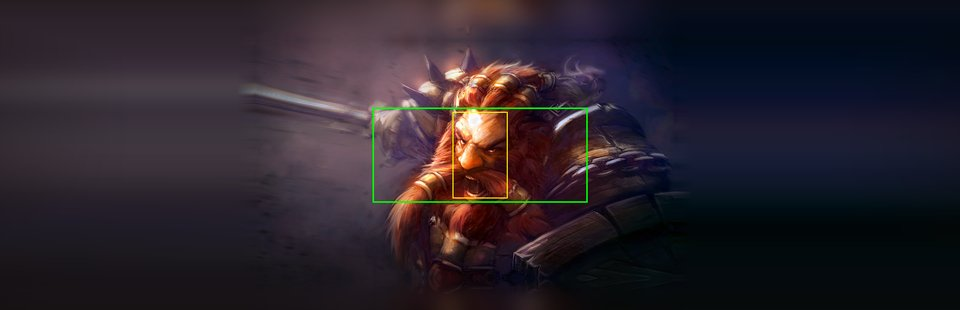
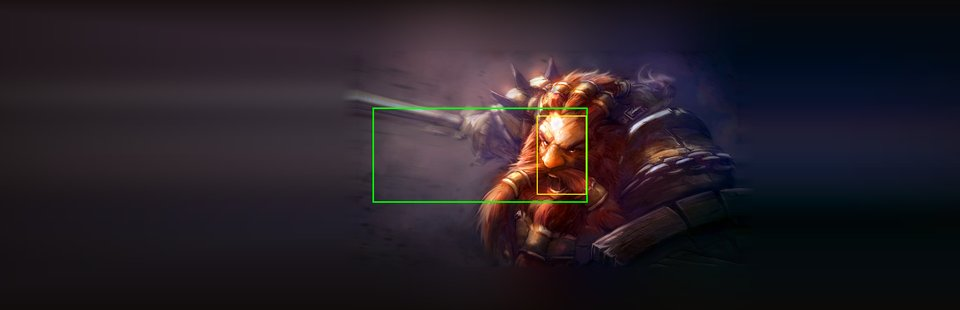
Update Development/AI/Steam Store Assets.md, uploads/Development/AI/Steam Store Assets/make_steam_store_assets.py, and example images in uploads/Development/AI/Steam Store Assets/.

diff --git a/uploads/Development/AI/Steam Store Assets/make_steam_store_assets.py b/uploads/Development/AI/Steam Store Assets/make_steam_store_assets.py
@@ -47,17 +47,17 @@ PORTRAITS = {
 #   and the center of the visible lockup as canvas fractions; over_face allows it over the face.
 ASSETS = [
     {"name": "storeheader", "file": r"STORE\GH_STEAM_ASSET_STOREHEADER.png", "size": (920, 430),
-     "art": "DwarfWarrior", "at": (0.70, 0.47), "zoom": 1.1,
+     "art": "DwarfWarrior", "at": (0.76, 0.47), "zoom": 1.0,
      "grade": {"side": ("left", 0.66, 235), "edges": (60, 110, 0, 40)},
-     "lockup": {"variant": "stacked", "width": 380, "center": (0.255, 0.5)}},
+     "lockup": {"variant": "stacked", "width": 465, "center": (0.306, 0.5), "shield": 2.2}},
     {"name": "smallcapsule", "file": r"STORE\GH_STEAM_ASSET_STORE_SMALLCAPSULE.png", "size": (462, 174),
      "art": "DwarfWarrior", "at": (0.62, 0.45), "zoom": 1.0,
      "grade": {"brightness": 0.36, "blur": 1.5, "edges": (40, 60, 40, 40)},
      "lockup": {"variant": "horizontal", "width": 406, "center": (0.5, 0.5), "shield": 1.25, "over_face": True}},
     {"name": "maincapsule", "file": r"STORE\GH_STEAM_ASSET_STORE_MAINCAPSULE.png", "size": (1232, 706),
-     "art": "WomanRanger", "at": (0.27, 0.26), "zoom": 1.05,
+     "art": "WomanRanger", "at": (0.25, 0.26), "zoom": 1.05,
      "grade": {"side": ("right", 0.62, 215), "edges": (50, 120, 30, 0)},
-     "lockup": {"variant": "stacked", "width": 500, "center": (0.725, 0.5)}},
+     "lockup": {"variant": "stacked", "width": 580, "center": (0.71, 0.5), "shield": 2.3}},
     {"name": "verticalcapsule", "file": r"STORE\GH_STEAM_ASSET_STORE_VERTICALCAPSULE.png", "size": (748, 896),
      "art": "WomanRanger", "focus": (0.43, 0.235), "at": (0.5, 0.17), "zoom": 1.0,
      "grade": {"side": ("bottom", 0.6, 245), "edges": (50, 0, 40, 40)},
@@ -71,12 +71,12 @@ ASSETS = [
      "grade": {"side": ("bottom", 0.6, 245), "edges": (50, 0, 40, 40)},
      "lockup": {"variant": "stacked", "width": 450, "center": (0.5, 0.8), "shield": 2.1}},
     {"name": "libraryheader", "file": r"LIBRARY\GH_STEAM_ASSET_LIBRARYHEADER.png", "size": (920, 430),
-     "art": "WomanRanger", "at": (0.27, 0.26), "zoom": 1.05,
+     "art": "WomanRanger", "at": (0.25, 0.26), "zoom": 1.05,
      "grade": {"side": ("right", 0.62, 215), "edges": (50, 120, 30, 0)},
-     "lockup": {"variant": "stacked", "width": 370, "center": (0.715, 0.5)}},
+     "lockup": {"variant": "stacked", "width": 430, "center": (0.70, 0.5), "shield": 2.3}},
     {"name": "libraryhero", "file": r"LIBRARY\GH_STEAM_ASSET_LIBRARYHERO.png", "size": (3840, 1240),
-     "art": "DwarfWarrior", "at": (0.5, 0.5), "zoom": 0.44, "extend": "smear",
-     "grade": {"edges": (120, 140, 60, 60), "corner": (150, 0.45, 0.55)}},
+     "art": "DwarfWarrior", "at": (0.585, 0.5), "zoom": 0.40, "extend": "smear",
+     "grade": {"side": ("left", 0.5, 140), "edges": (190, 200, 60, 60), "corner": (150, 0.45, 0.55)}},
     {"name": "librarylogo", "file": r"LIBRARY\GH_STEAM_ASSET_LIBRARYLOGO.png", "size": (1280, None),
      "lockup": {"variant": "horizontal", "width": 1280, "shadow": 1.6}},
 ]
@@ -89,8 +89,14 @@ DOWNSCALES = {
     "libraryhero": [(1920, 620)],
 }
 
-# Library Logo positions that Steamworks offers over the hero
+# Library Logo positions that Steamworks offers over the hero, and the one set in Steamworks
 LOGO_POSITIONS = ("bottom_left", "top_center", "center", "bottom_center")
+LOGO_POSITION = "bottom_left"
+
+# The Library Logo as the Steam client showed it at bottom left in a 2000-pixel-wide library view
+# (November 23, 2026), as fractions of the hero: visible width, left edge, and vertical center.
+# The client shows the logo larger than the uploaded file. The other positions are estimates.
+LOGO_VIEW = {"width": 0.47, "left": 0.046, "center_y": 0.555}
 
 
 def find_cinzel(style):
@@ -114,9 +120,9 @@ def ramp(size, horizontal, func):
 def extend(src, box, mode="mirror"):
     """Returns the source padded so that box fits, and box in its coordinates.
 
-    mode "mirror" pads with mirrored art. "smear" stretches the colors of the leftmost and rightmost
-    columns sideways instead, for art whose subject would show up again in a mirrored copy, and
-    mirrors at the top and bottom. The padding is blurred.
+    mode "mirror" pads with mirrored art. "smear" stretches the colors of the outermost columns and
+    rows outward instead, for art whose subject would show up again in a mirrored copy. The padding
+    is blurred.
     """
     sw, sh = src.size
     x0, y0, x1, y1 = box
@@ -141,10 +147,17 @@ def extend(src, box, mode="mirror"):
         img.paste(strip((left, top, left + (edge if mode == "smear" else left), top + sh), (left, sh)), (0, top))
     if right:
         img.paste(strip((left + sw - (edge if mode == "smear" else right), top, left + sw, top + sh), (right, sh)), (left + sw, top))
+    def rows(region, height):
+        part = img.crop(region)
+        if mode == "smear":
+            line = part.resize((w, 1), Image.BOX).filter(ImageFilter.GaussianBlur(0.02 * w))
+            return line.resize((w, height), Image.BILINEAR)
+        return part.transpose(Image.FLIP_TOP_BOTTOM)
+
     if top:
-        img.paste(img.crop((0, top, w, 2 * top)).transpose(Image.FLIP_TOP_BOTTOM), (0, 0))
+        img.paste(rows((0, top, w, top + (edge if mode == "smear" else top)), top), (0, 0))
     if bottom:
-        img.paste(img.crop((0, top + sh - bottom, w, top + sh)).transpose(Image.FLIP_TOP_BOTTOM), (0, top + sh))
+        img.paste(rows((0, top + sh - (edge if mode == "smear" else bottom), w, top + sh), bottom), (0, top + sh))
     feather = 0.04 * sw
     blurred = img.reduce(8).filter(ImageFilter.GaussianBlur(0.025 * sw / 8)).resize((w, h), Image.BICUBIC)
     across = ramp((w, h), True, lambda t: max(left - t * w, t * w - left - sw) / feather)
@@ -153,24 +166,31 @@ def extend(src, box, mode="mirror"):
     return img, (x0 + left, y0 + top, x1 + left, y1 + top)
 
 
-def place_art(art_dir, spec):
-    """Scales the portrait in one Lanczos step onto the canvas; returns the image and the face box on it."""
-    name = spec["art"]
-    src = Image.open(os.path.join(art_dir, name + ".png")).convert("RGB")
+def art_geometry(art_dir, spec):
+    """Returns the scale, the source point at the canvas origin, and the face box on the canvas."""
+    with Image.open(os.path.join(art_dir, spec["art"] + ".png")) as src:
+        sw, sh = src.size
     w, h = spec["size"]
-    face = PORTRAITS[name]["face"]
+    face = PORTRAITS[spec["art"]]["face"]
     fx, fy = spec.get("focus", ((face[0] + face[2]) / 2, (face[1] + face[3]) / 2))
     ax, ay = spec["at"]
-    scale = spec["zoom"] * max(w / src.width, h / src.height)
+    scale = spec["zoom"] * max(w / sw, h / sh)
     if scale > 1:
         raise SystemExit(spec["name"] + ": the art would be upscaled; lower the zoom")
-    x0 = fx * src.width - ax * w / scale
-    y0 = fy * src.height - ay * h / scale
+    x0 = fx * sw - ax * w / scale
+    y0 = fy * sh - ay * h / scale
+    face_box = (round((face[0] * sw - x0) * scale), round((face[1] * sh - y0) * scale),
+                round((face[2] * sw - x0) * scale), round((face[3] * sh - y0) * scale))
+    return scale, x0, y0, face_box
+
+
+def place_art(art_dir, spec):
+    """Scales the portrait in one Lanczos step onto the canvas; returns the image and the face box on it."""
+    scale, x0, y0, face_box = art_geometry(art_dir, spec)
+    w, h = spec["size"]
+    src = Image.open(os.path.join(art_dir, spec["art"] + ".png")).convert("RGB")
     img, box = extend(src, (x0, y0, x0 + w / scale, y0 + h / scale), spec.get("extend", "mirror"))
-    out = img.resize((w, h), Image.LANCZOS, box=box)
-    face_box = tuple(round(((face[i] * (src.width if i % 2 == 0 else src.height)) - (x0 if i % 2 == 0 else y0))
-                           * scale) for i in range(4))
-    return out, face_box
+    return img.resize((w, h), Image.LANCZOS, box=box), face_box
 
 
 def grade(img, g):
@@ -404,18 +424,34 @@ def write_checks(images, faces, checks_dir, examples_dir):
     over = {}
     if "libraryhero" in images and "librarylogo" in images:
         hero, logo = images["libraryhero"], images["librarylogo"]
-        mx, my = round(hero.width * 0.04), round(hero.height * 0.08)
+        ink = logo.getchannel("A").point(lambda v: 255 if v >= 128 else 0).getbbox()
+        k = LOGO_VIEW["width"] * hero.width / (ink[2] - ink[0])
+        logo = logo.resize((round(logo.width * k), round(logo.height * k)), Image.LANCZOS)
+        ink = tuple(round(v * k) for v in ink)
+        iw, ih = ink[2] - ink[0], ink[3] - ink[1]
+        left = round(LOGO_VIEW["left"] * hero.width)
+        middle = round(LOGO_VIEW["center_y"] * hero.height)
         spots = {
-            "bottom_left": (mx, hero.height - my - logo.height),
-            "top_center": ((hero.width - logo.width) // 2, my),
-            "center": ((hero.width - logo.width) // 2, (hero.height - logo.height) // 2),
-            "bottom_center": ((hero.width - logo.width) // 2, hero.height - my - logo.height),
+            "bottom_left": (left, middle - ih // 2),
+            "top_center": ((hero.width - iw) // 2, round(hero.height * 0.12)),
+            "center": ((hero.width - iw) // 2, (hero.height - ih) // 2),
+            "bottom_center": ((hero.width - iw) // 2, middle - ih // 2),
         }
+        face = faces.get("libraryhero")
         for pos in LOGO_POSITIONS:
+            x, y = spots[pos][0] - ink[0], spots[pos][1] - ink[1]
             img = hero.convert("RGBA")
-            img.alpha_composite(logo, spots[pos])
+            full = Image.new("RGBA", img.size, (0, 0, 0, 0))
+            full.paste(logo, (x, y))
+            img.alpha_composite(full)
             over[pos] = img.convert("RGB")
             save(over[pos].resize((1920, 620), Image.LANCZOS), "logo_over_hero_%s.png" % pos)
+            if pos == LOGO_POSITION and face:
+                vis = (spots[pos][0], spots[pos][1], spots[pos][0] + iw, spots[pos][1] + ih)
+                clear = vis[2] <= face[0] or vis[0] >= face[2] or vis[3] <= face[1] or vis[1] >= face[3]
+                print("  logo %s at %s is %s the hero face %s" % (vis, pos, "clear of" if clear else "OVER", face))
+                if not clear:
+                    print("WARNING: libraryhero: the logo covers the face at " + pos)
 
     if "pagebackground" in images:
         bg = images["pagebackground"]
@@ -515,14 +551,15 @@ def main():
         raise SystemExit("These outputs exist; use --force to overwrite them:\n  " + "\n  ".join(existing))
 
     lockup = Lockup(args.gnollhack_repo)
-    images, faces = {}, {}
+    images = {}
+    faces = {a["name"]: art_geometry(args.art_dir, a)[3] for a in ASSETS if "art" in a}
     for spec in todo:
-        img, face, vis = make_asset(spec, args, lockup)
+        img, _, vis = make_asset(spec, args, lockup)
         check(spec, img)
         path = os.path.join(args.out_dir, spec["file"])
         os.makedirs(os.path.dirname(path), exist_ok=True)
         img.save(path)
-        images[spec["name"]], faces[spec["name"]] = img, face
+        images[spec["name"]] = img
         print("%-16s %-48s %dx%d %s%s" % (spec["name"], spec["file"], img.width, img.height, img.mode,
                                          "  lockup %s" % (vis,) if vis else ""))
     for spec in ASSETS:

diff --git a/Development/AI/Steam Store Assets.md b/Development/AI/Steam Store Assets.md
@@ -40,6 +40,7 @@ Follow the style of [[/Development/AI/Steam Events and Announcements]], with the
   - **Horizontal:** The shield on the left, the name on the right, centered on the shield. Used for the Small Capsule and the Library Logo.
   - **Stacked:** The shield above the name, centered. Used for the Header Capsule, the Main and Vertical Capsules, the Library Capsule, and the Library Header.
 - **Shield file.** The GnollHack repository's `win/win32/xpl/GnollHackM/Assets/AppIcon/gnollhack-icon-v2-512-1240_x_1240.png`. It is the same shield as the event images' logo file, at 1171×1160 visible pixels, so it is never upscaled.
+- **Name size.** Make the name as large as the art and the margins allow. Players see most capsules at a fraction of their uploaded size, and the name is what they need to read and remember. In a stacked lockup, the name sets the width, so a smaller shield makes the lockup shorter without making the name smaller.
 - **No taglines.** The name is the only text on any image.
 - **Margins.** Keep the lockup at least 5% of the image's width away from every edge.
 - **Grading.** Contrast ×1.08 and saturation ×1.05, then a warm near-black overlay (RGB 14, 9, 6) that fades out from the lockup's side, and slightly darker edges. The subject stays bright. The Small Capsule and the Page Background use their own grading, described below.
@@ -56,7 +57,7 @@ All nine images of the current set:
 
 ### Header Capsule
 
-DwarfWarrior, with his face right of the center (at 70% of the width) and the art zoomed to 110% of the size that covers the image. The left side is darkened. The stacked lockup, 380 pixels wide, is centered at 25% of the width. Check that the name is readable at 460×215.
+DwarfWarrior, with his face at 76% of the width and the art at the size that covers the image, which leaves room for a large name on the left. The left side is darkened. The stacked lockup, 465 pixels wide with a shield 2.2 times the font size, is centered at 30.6% of the width. Check that the name is readable at 460×215.
 
 ### Small Capsule
 
@@ -64,11 +65,11 @@ DwarfWarrior as a background texture only: brightness ×0.36 and a 1.5-pixel blu
 
 ### Main Capsule
 
-WomanRanger on the left, not mirrored: a mirrored archer looks wrong. The right side is darkened. The stacked lockup, 500 pixels wide, is centered at 72.5% of the width and in the middle of the height.
+WomanRanger on the left, not mirrored: a mirrored archer looks wrong. Her face is at 25% of the width. The right side is darkened. The stacked lockup, 580 pixels wide with a shield 2.3 times the font size, is centered at 71% of the width and in the middle of the height. The name must not cross the bow. Steam shows this image at about 616×353 in the front-page carousel, so check that the name is readable at that size.
 
 ### Vertical Capsule
 
-WomanRanger, with her face in the upper quarter of the image. The art is moved up, and the gap at the bottom is filled with mirrored, blurred art, which the bottom darkening covers. The stacked lockup, 540 pixels wide, is centered at 80% of the height. Its shield is smaller than in the other stacked lockups (2.1 times the font size instead of 2.6), so that it does not cover the subject.
+WomanRanger, with her face in the upper quarter of the image. The art is moved up, and the gap at the bottom is filled with mirrored, blurred art, which the bottom darkening covers. The stacked lockup, 540 pixels wide, is centered at 80% of the height. Its shield is the smallest of the stacked lockups (2.1 times the font size), so that it does not cover the subject.
 
 ### Page Background
 
@@ -88,15 +89,19 @@ The same composition as the Vertical Capsule, with a 450-pixel lockup. Check tha
 
 ### Library Header
 
-The same composition as the Main Capsule, with a 370-pixel lockup.
+The same composition as the Main Capsule, with a 430-pixel lockup centered at 70% of the width.
 
 ### Library Hero
 
-DwarfWarrior, with no text and no logo. His face, from the forehead to the mouth, must be entirely inside the safe area, so the art is scaled down to 44% of the size that covers the image and centered on his face. The art then covers only the middle of the image:
+DwarfWarrior, with no text and no logo. His face, from the forehead to the mouth, must be entirely inside the safe area, so the art is scaled down to 40% of the size that covers the image.
 
-- At the left and right, extend it by stretching the colors of the art's outermost columns sideways and blurring them. Do not mirror the art there: a mirrored copy repeats the dwarf at both sides.
-- At the top and bottom, extend it with mirrored, blurred art, and darken both edges.
-- Darken the lower-left corner a little, so that the logo stays legible there.
+The Steam client shows the Library Logo larger than the uploaded file: at the bottom-left position, it spanned about 47% of the hero's width, up to about column 1980. A face in the middle of the safe area (columns 1810–2030 in the first version of the set) was then under the logo. So place the face against the right edge of the safe area: its center at 58.5% of the width, which puts the face box at columns 2147–2346.
+
+The art then covers only part of the image:
+
+- Extend it on every side by stretching the colors of the art's outermost columns and rows outward and blurring them. Do not mirror the art: a mirrored copy repeats the dwarf, or blurred parts of his hair and beard, at the edges.
+- Darken the left side, so that the logo reads over the art there, and darken the top and bottom edges.
+- Darken the lower-left corner a little more.
 
 The check image draws the safe area in green and the face in yellow:
 
@@ -106,7 +111,7 @@ The check image draws the safe area in green and the face in yellow:
 
 ### Library Logo
 
-The horizontal lockup, 1280 pixels wide including its shadow, with the height trimmed to the lockup and its shadow (337 pixels in the current set). Its shadow is 1.6 times as wide as in the other lockups and is part of the transparency, so that the logo stays legible over both the light and the dark parts of the hero. The logo over the hero at the bottom-left position:
+The horizontal lockup, 1280 pixels wide including its shadow, with the height trimmed to the lockup and its shadow (337 pixels in the current set). Its shadow is 1.6 times as wide as in the other lockups and is part of the transparency, so that the logo stays legible over both the light and the dark parts of the hero. Set its position to bottom left in Steamworks. The check image shows it at the size and place the Steam client used (see [[Check Images|#check-images]]), and it must not cover the hero's face:
 
 ![Example Library Logo over the Library Hero at the bottom-left position, downscaled to 960×310](/uploads/Development/AI/Steam%20Store%20Assets/example_logo_over_hero.jpg)
 
@@ -161,7 +166,7 @@ Two tables at the top of the script set every image, so a change of portrait or 
 | **`focus`** | The point of the portrait, as fractions, that is placed at `at`. The default is the face's center |
 | **`at`** | Where the focus point lands on the image, as fractions of its width and height |
 | **`zoom`** | The art's scale in relation to the smallest scale that covers the image. Below 1, the art is extended at the sides |
-| **`extend`** | How the art is extended: `mirror` (the default) or `smear`, which stretches the outermost columns sideways |
+| **`extend`** | How the art is extended: `mirror` (the default) or `smear`, which stretches the outermost columns and rows outward |
 | **`grade`** | Contrast, saturation, brightness, blur, highlight compression, the darkened side, and the darkened edges and corner |
 | **`lockup`** | The variant (`horizontal` or `stacked`), the visible width in pixels, the center as fractions of the image, and optionally the shield size in relation to the font size and the shadow strength |
 
@@ -170,6 +175,7 @@ The script stops if a portrait would be upscaled. It checks the size and color m
 - a lockup is closer than 5% of the image's width to an edge;
 - a lockup covers the face (the Small Capsule is allowed to);
 - the hero's face is not inside the safe area;
+- the logo covers the hero's face at the position set in Steamworks (`LOGO_POSITION`);
 - the shield would be upscaled.
 
 ### Check Images
@@ -180,7 +186,7 @@ The script writes these into the checks folder:
 |------|-------|
 | **`downscale_*.png`** | The Header Capsule at 460×215, the Small Capsule at 184×69 and 120×45, the Library Capsule at 300×450, and the hero at 1920×620. `downscale_smallcapsule_120x45_zoomed.png` shows the 120×45 version enlarged four times |
 | **`hero_safe_area.png`** | The hero with the safe area (green) and the face (yellow) |
-| **`logo_over_hero_*.png`** | The logo over the hero at the four positions of Steamworks, at 1920×620 |
+| **`logo_over_hero_*.png`** | The logo over the hero at the four positions of Steamworks, at 1920×620. The logo is shown as the Steam client showed it at bottom left in a 2000-pixel-wide library view on November 23, 2026 (`LOGO_VIEW` in the script): 47% of the hero's width, its left edge at 4.6%, and its center at 55.5% of the height. The other three positions are estimates. Steam's library also covers the bottom of the hero with its Play bar |
 | **`page_background_simulated.png`** | The Page Background with a blue tint and faded edges, as a stand-in for Steam's undocumented template, with the store page's 940-pixel content column outlined in blue |
 | **`contact_sheet.png`** | All nine images in one sheet |
 
@@ -192,7 +198,7 @@ Before delivering:
 2. Check that the script printed no warnings. If it did, change the parameters and run it again.
 3. Check that the name is readable in every downscaled version, including the Small Capsule at 120×45.
 4. Check that no image has any text other than "GnollHack", and that the hero and the Page Background have none at all.
-5. Check that the hero's face is inside the safe area and that no lockup covers a face.
+5. Check that the hero's face is inside the safe area, that the Library Logo does not cover it in `logo_over_hero_bottom_left.png`, and that no lockup covers a face.
 6. Check the edges of every image for unfinished art or a visible seam where the art was extended.
 7. Check that the images look like one family with the event images.
 
@@ -200,7 +206,7 @@ Then deliver to the user:
 
 - the full paths of the nine images, and the contact sheet sent directly if your tools can send files;
 - a list of the images that changed, if only some were rebuilt;
-- a reminder that the user uploads the images in Steamworks (Store Assets and Library Assets), positions the Library Logo over the hero, and checks the Page Background in the store preview before publishing.
+- a reminder that the user uploads the images in Steamworks (Store Assets and Library Assets), sets the Library Logo's position to bottom left, checks in the Steam library that the logo does not cover the hero's face, and checks the Page Background in the store preview before publishing.
 
 ## Example Image License
 
